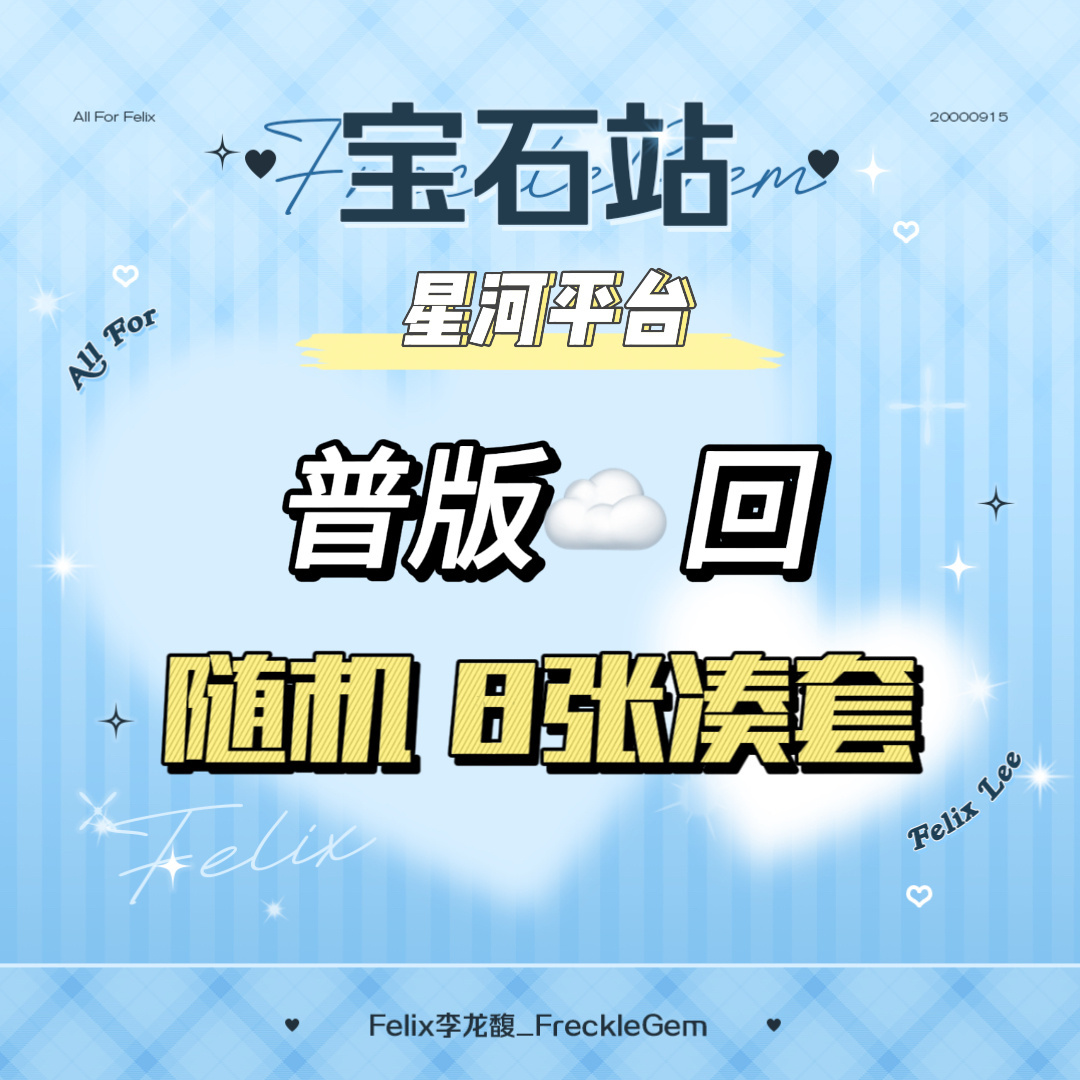
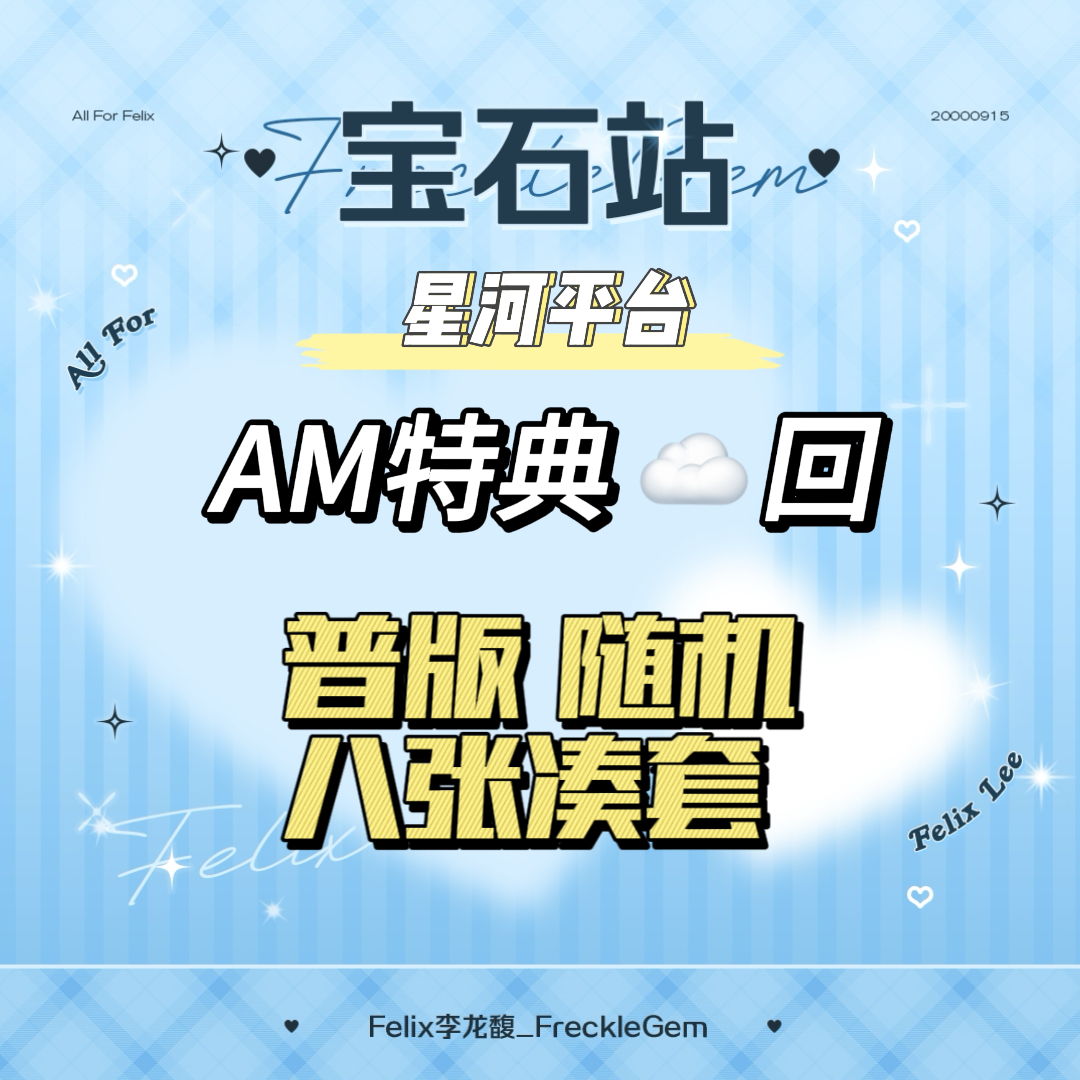
feat: add items

diff --git a/js/pages/kram.js b/js/pages/kram.js
@@ -355,6 +355,70 @@ const kramItems = [
     fansite: 'gem',
   },
   {
+    id: 'kram_back_limit_wm_gem',
+    ver: ['limit'],
+    image: './images/item/gem/kram_back_limit_wm_gem.jpeg',
+    buyLink: 'https://weidian.com/item.html?itemID=6726461506',
+    title: '【宝石】WM限量版',
+    brand: ['WM'],
+    hit: [],
+    descLink: '',
+    price: '¥ 85',
+    shipping: 'back',
+    onlyFelix: false,
+    allVersion: false,
+    ribbon: '',
+    fansite: 'gem',
+  },
+  {
+    id: 'kram_back_rr_wm_gem',
+    ver: ['rr'],
+    image: './images/item/gem/kram_back_rr_wm_gem.jpeg',
+    buyLink: 'https://weidian.com/item.html?itemID=6725396361',
+    title: '【宝石】WM普版',
+    brand: ['WM'],
+    hit: [],
+    descLink: '',
+    price: '¥ 82',
+    shipping: 'back',
+    onlyFelix: false,
+    allVersion: false,
+    ribbon: '',
+    fansite: 'gem',
+  },
+  {
+    id: 'kram_back_rr_kms_gem',
+    ver: ['rr'],
+    image: './images/item/gem/kram_back_rr_kms_gem.jpeg',
+    buyLink: 'https://weidian.com/item.html?itemID=6729366882',
+    title: '【宝石】KMS普版',
+    brand: ['KMS'],
+    hit: [],
+    descLink: '',
+    price: '¥ 75',
+    shipping: 'back',
+    onlyFelix: false,
+    allVersion: false,
+    ribbon: '',
+    fansite: 'gem',
+  },
+  {
+    id: 'kram_back_p_kms_gem',
+    ver: ['p'],
+    image: './images/item/gem/kram_back_p_kms_gem.jpeg',
+    buyLink: 'https://weidian.com/item.html?itemID=6728404839',
+    title: '【宝石】KMS P版',
+    brand: ['KMS'],
+    hit: [],
+    descLink: '',
+    price: '¥ 54',
+    shipping: 'back',
+    onlyFelix: false,
+    allVersion: false,
+    ribbon: '',
+    fansite: 'gem',
+  },
+  {
     id: 'kram_back_p_1_gem',
     ver: ['p'],
     image: './images/item/gem/kram_back_p_1_gem.jpeg',
@@ -369,6 +433,21 @@ const kramItems = [
     ribbon: '',
     fansite: 'gem',
     soldOut: true,
+  },
+  {
+    id: 'kram_back_rr_wm_1_gem',
+    ver: ['rr'],
+    image: './images/item/gem/kram_back_rr_wm_1_gem.jpeg',
+    buyLink: 'https://weidian.com/item.html?itemID=6726301064',
+    title: '【宝石】WM普版1+1',
+    brand: ['WM'],
+    hit: [],
+    descLink: '',
+    price: '¥ 164',
+    shipping: 'back',
+    onlyFelix: true,
+    ribbon: '',
+    fansite: 'gem',
   },
   {
     id: 'kram_back_rr_jyp_1_gem',

diff --git a/html/pages/search.html b/html/pages/search.html
@@ -113,6 +113,26 @@
   </div>
 </div>
 
+<div id="mmtQRcodeGem" class="w3-modal">
+  <div class="w3-modal-content w3-animate-zoom" style="padding:16px">
+    <div class="w3-container w3-white w3-center">
+      <i onclick="document.getElementById('mmtQRcodeGem').style.display='none'" class="fa fa-remove w3-right w3-button w3-transparent w3-xxlarge"></i>
+      <h2 class="w3-wide">MMT特典普版</h2>
+      <img src="./images/item/gem/mmtshoop_back_rr_qrcode_gem.jpeg" class="w3-left w3-margin-right" style="width: 100%">
+    </div>
+  </div>
+</div>
+
+<div id="mmtFelixQRcodeGem" class="w3-modal">
+  <div class="w3-modal-content w3-animate-zoom" style="padding:16px">
+    <div class="w3-container w3-white w3-center">
+      <i onclick="document.getElementById('mmtFelixQRcodeGem').style.display='none'" class="fa fa-remove w3-right w3-button w3-transparent w3-xxlarge"></i>
+      <h2 class="w3-wide">MMT特典普版1+1</h2>
+      <img src="./images/item/gem/mmtshoop_back_rr_mmt_qrcode_gem.jpeg" class="w3-left w3-margin-right" style="width: 100%">
+    </div>
+  </div>
+</div>
+
 <div id="specifyTable" class="w3-modal">
   <div class="w3-modal-content w3-animate-zoom" style="padding:16px">
     <div class="w3-container w3-white">

diff --git a/js/pages/oxbldkr.js b/js/pages/oxbldkr.js
@@ -114,6 +114,22 @@ const oxbldkrItems = [
   },
   // gem
   {
+    id: 'oxbldkr_back_rr_wm_1_gem',
+    ver: ['rr'],
+    image: './images/item/gem/oxbldkr_back_rr_wm_1_gem.jpeg',
+    buyLink: 'https://www.oxbldkr.com/index.php/wap/goods/detail?goods_id=7901',
+    title: '【菲首】普版',
+    brand: ['WM'],
+    hit: [],
+    descLink: '',
+    price: '¥ 77',
+    shipping: 'back',
+    onlyFelix: false,
+    allVersion: false,
+    ribbon: '',
+    fansite: 'gem',
+  },
+  {
     id: 'oxbldkr_back_rr_gem',
     ver: ['rr'],
     image: './images/item/gem/oxbldkr_back_rr_gem.jpeg',
@@ -155,6 +171,22 @@ const oxbldkrItems = [
     hit: [],
     descLink: '',
     price: '¥ 58~64',
+    shipping: 'back',
+    onlyFelix: false,
+    allVersion: false,
+    ribbon: '',
+    fansite: 'gem',
+  },
+  {
+    id: 'oxbldkr_back_rr_wm_gem',
+    ver: ['rr'],
+    image: './images/item/gem/oxbldkr_back_rr_wm_gem.jpeg',
+    buyLink: 'https://www.oxbldkr.com/index.php/wap/goods/detail?goods_id=7902',
+    title: '【菲首】普版 (1套8张)',
+    brand: ['WM'],
+    hit: [],
+    descLink: '',
+    price: '¥ 674',
     shipping: 'back',
     onlyFelix: false,
     allVersion: false,

diff --git a/html/pages/mmtshop.html b/html/pages/mmtshop.html
@@ -28,3 +28,23 @@
     </div>
   </div>
 </div>
+
+<div id="mmtQRcodeGem" class="w3-modal">
+  <div class="w3-modal-content w3-animate-zoom" style="padding:16px">
+    <div class="w3-container w3-white w3-center">
+      <i onclick="document.getElementById('mmtQRcodeGem').style.display='none'" class="fa fa-remove w3-right w3-button w3-transparent w3-xxlarge"></i>
+      <h2 class="w3-wide">MMT特典普版</h2>
+      <img src="./images/item/gem/mmtshoop_back_rr_qrcode_gem.jpeg" class="w3-left w3-margin-right" style="width: 100%">
+    </div>
+  </div>
+</div>
+
+<div id="mmtFelixQRcodeGem" class="w3-modal">
+  <div class="w3-modal-content w3-animate-zoom" style="padding:16px">
+    <div class="w3-container w3-white w3-center">
+      <i onclick="document.getElementById('mmtFelixQRcodeGem').style.display='none'" class="fa fa-remove w3-right w3-button w3-transparent w3-xxlarge"></i>
+      <h2 class="w3-wide">MMT特典普版1+1</h2>
+      <img src="./images/item/gem/mmtshoop_back_rr_mmt_qrcode_gem.jpeg" class="w3-left w3-margin-right" style="width: 100%">
+    </div>
+  </div>
+</div>

diff --git a/js/pages/mmtshop.js b/js/pages/mmtshop.js
@@ -34,4 +34,39 @@ const mmtshopItems = [
     ribbon: '',
     fansite: 'china',
   },
+  // gem
+  {
+    id: 'mmtshoop_back_rr_gem',
+    ver: ['rr'],
+    image: './images/item/gem/mmtshoop_back_rr_gem.jpeg',
+    buyLink: '',
+    modalID: 'mmtQRcodeGem',
+    title: '【宝石】普版',
+    brand: ['MMT'],
+    hit: [],
+    descLink: '',
+    price: '¥ 78',
+    shipping: 'back',
+    onlyFelix: false,
+    allVersion: false,
+    ribbon: '',
+    fansite: 'gem',
+  },
+  {
+    id: 'mmtshoop_back_rr_mmt_gem',
+    ver: ['rr'],
+    image: './images/item/gem/mmtshoop_back_rr_mmt_gem.jpeg',
+    buyLink: '',
+    modalID: 'mmtFelixQRcodeGem',
+    title: '【宝石】MMT普版1+1',
+    brand: ['MMT'],
+    hit: [],
+    descLink: '',
+    price: '¥ 156',
+    shipping: 'back',
+    onlyFelix: true,
+    allVersion: false,
+    ribbon: '',
+    fansite: 'gem',
+  },
 ]

diff --git a/js/pages/sr.js b/js/pages/sr.js
@@ -153,7 +153,7 @@ const srItems = [
     image: './images/item/gem/sr_back_rr_gem.jpeg',
     buyLink: 'http://m.liveonepick.com/#/?productId=08050f76379241eea0399b02f37841f2',
     title: '【宝石】普版',
-    brand: [],
+    brand: ['AM'],
     hit: [],
     descLink: '',
     price: '¥ 63',
@@ -210,5 +210,21 @@ const srItems = [
     allVersion: false,
     ribbon: '',
     fansite: 'gem',
-  }, 
+  },
+  {
+    id: 'sr_non_back_rr_gem',
+    ver: ['rr'],
+    image: './images/item/gem/sr_non_back_rr_gem.jpeg',
+    buyLink: 'http://m.liveonepick.com/#/?productId=d711b3a5e349441685394b1c6dfa86c3',
+    title: '【宝石】普版',
+    brand: ['AM'],
+    hit: ['可指定成员'],
+    descLink: '',
+    price: '¥ 64',
+    shipping: 'non-back',
+    onlyFelix: true,
+    allVersion: false,
+    ribbon: '',
+    fansite: 'gem',
+  },
 ]

diff --git a/js/pages/wd_gem.js b/js/pages/wd_gem.js
@@ -50,6 +50,22 @@ const wdGemItems = [
     fansite: 'gem',
   },
   {
+    id: 'wd_non_back_kms_gem',
+    ver: ['rr'],
+    image: './images/item/gem/wd_non_back_kms_gem.jpeg',
+    buyLink: 'https://weidian.com/item.html?itemID=6728475393',
+    title: '【宝石】KMS普版',
+    brand: ['KMS'],
+    hit: ['可指定成员'],
+    descLink: '',
+    price: '¥ 75.5',
+    shipping: 'non-back',
+    onlyFelix: true,
+    allVersion: false,
+    ribbon: '',
+    fansite: 'gem',
+  },
+  {
     id: 'wd_non_back_target_gem',
     ver: ['rr'],
     image: './images/item/gem/wd_non_back_target_gem.jpeg',

diff --git a/html/home.html b/html/home.html
@@ -63,5 +63,5 @@
     </a>
   </div>
 
-  <div class="w3-margin-top w3-medium">更新时间 2023/10/17 22:30</div>
+  <div class="w3-margin-top w3-medium">更新时间 2023/10/18 01:20</div>
 </div>
